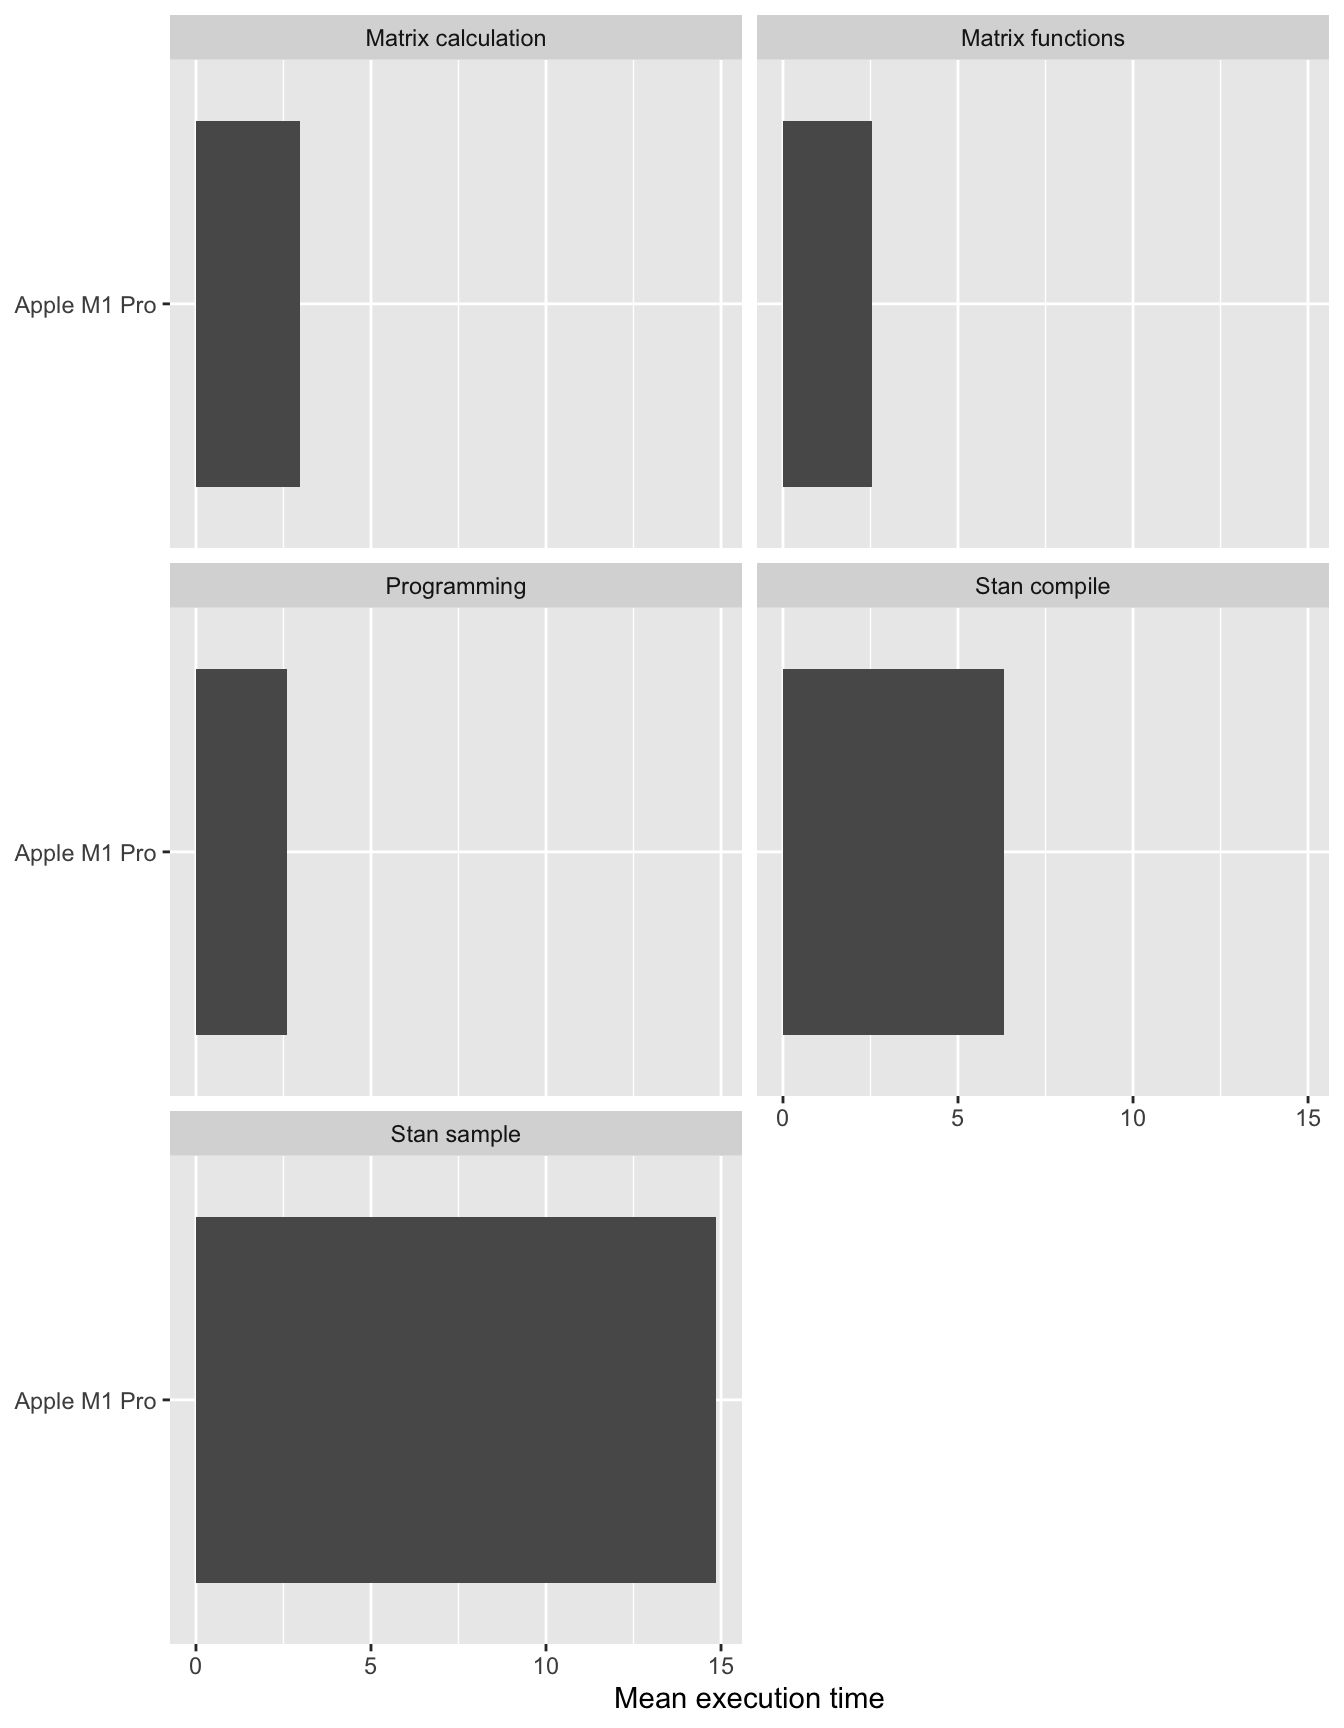
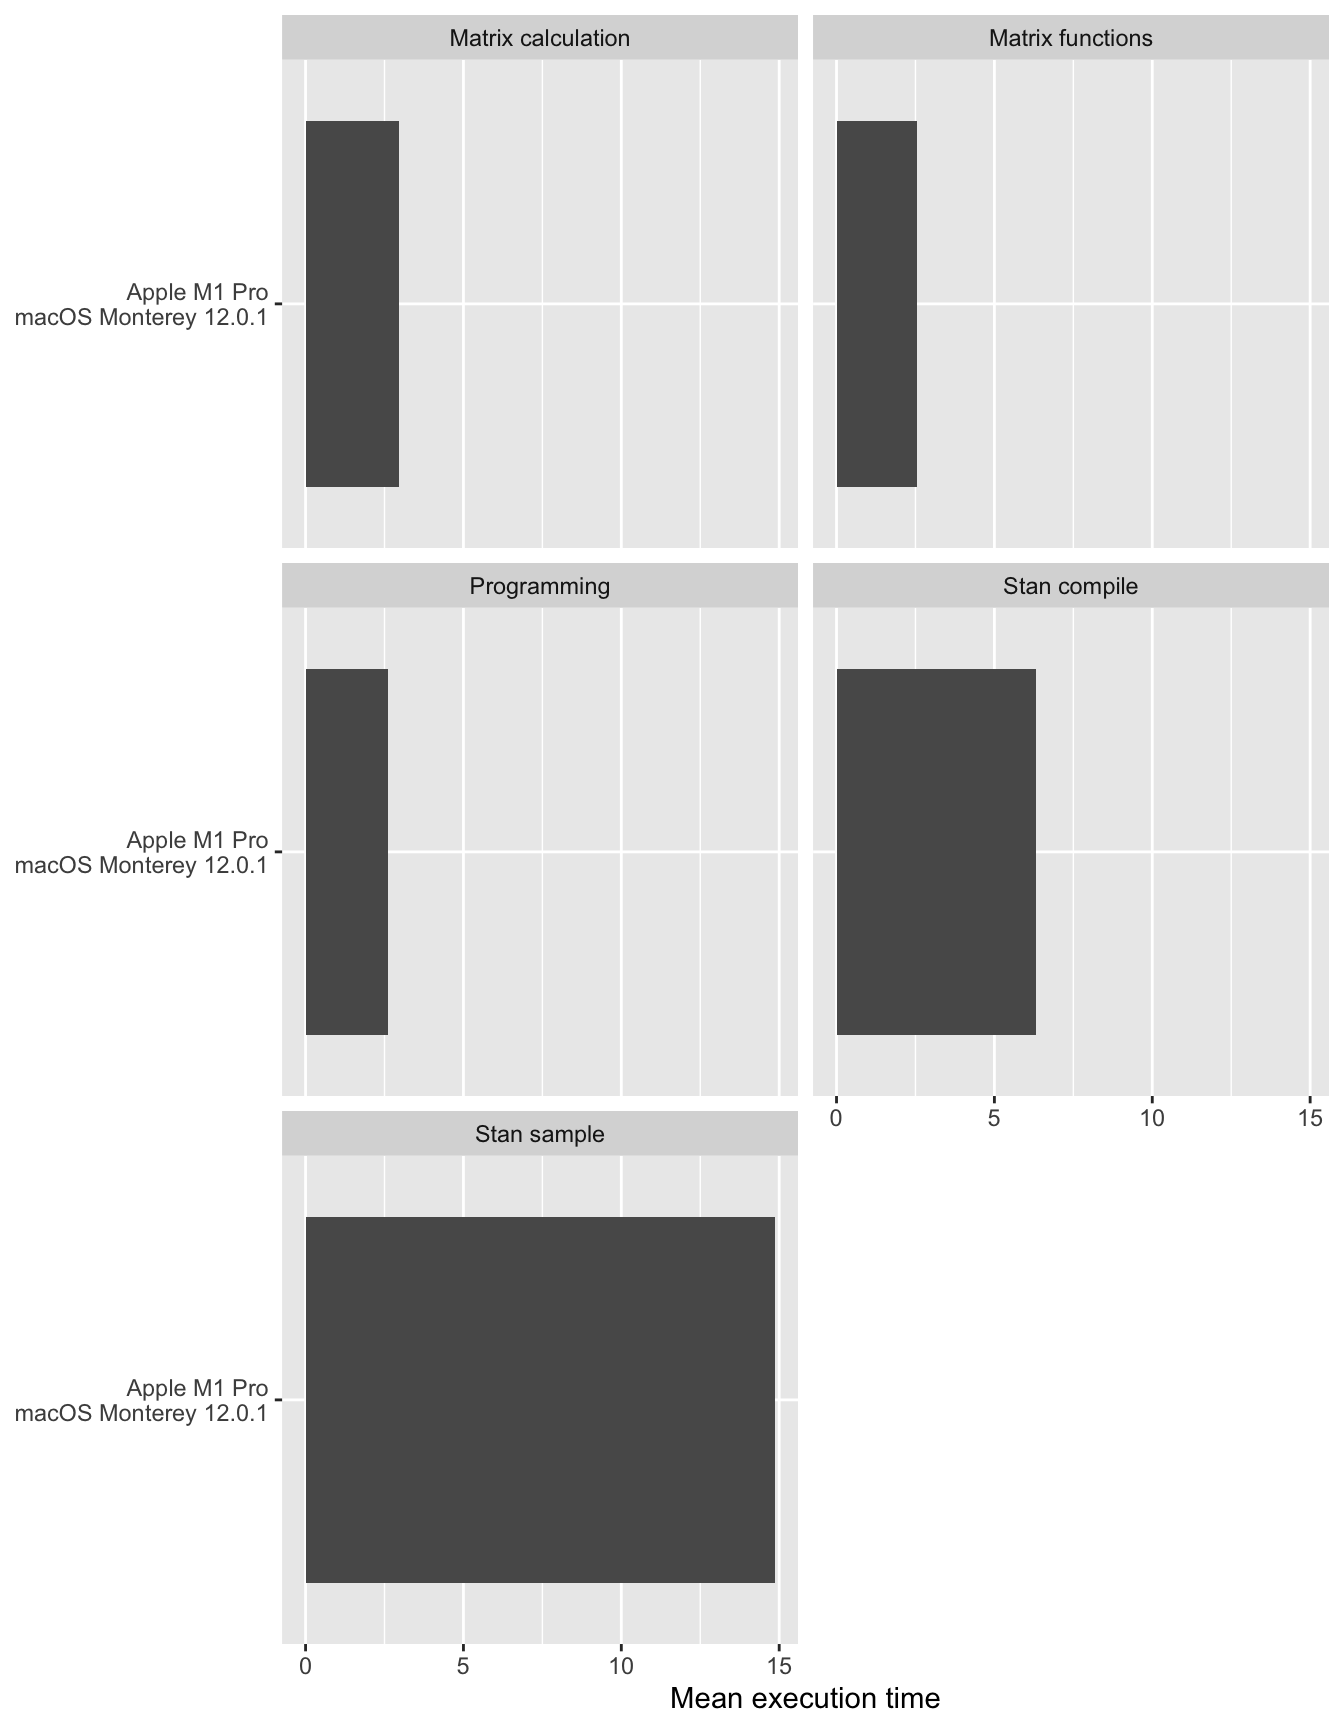
include os

diff --git a/index.md b/index.md
@@ -5,7 +5,7 @@ Matti
 
 ``` r
 d %>% 
-  ggplot(aes(mean, cpu)) +
+  ggplot(aes(mean, paste(cpu, os, sep = "\n"))) +
   scale_x_continuous("Mean execution time") +
   geom_col() +
   facet_wrap("expr", nrow = 3) +
